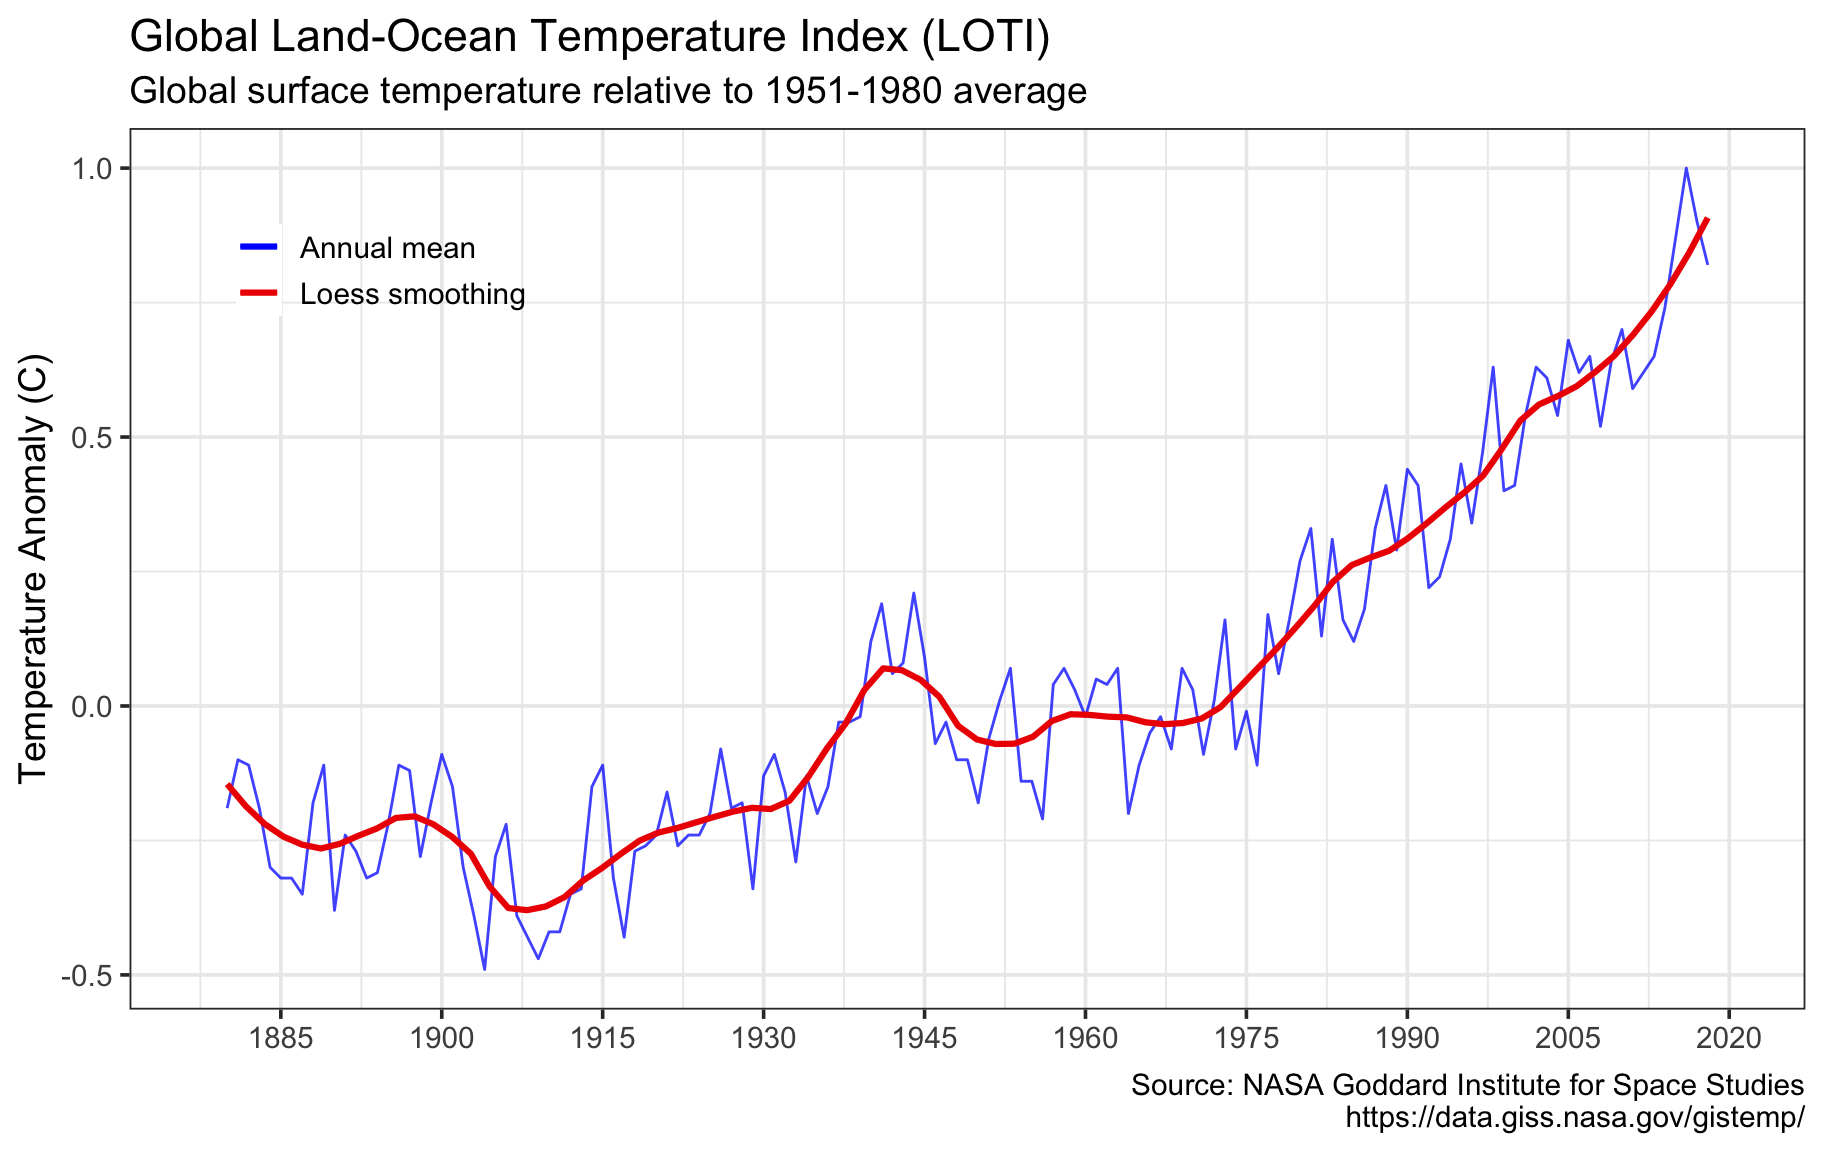
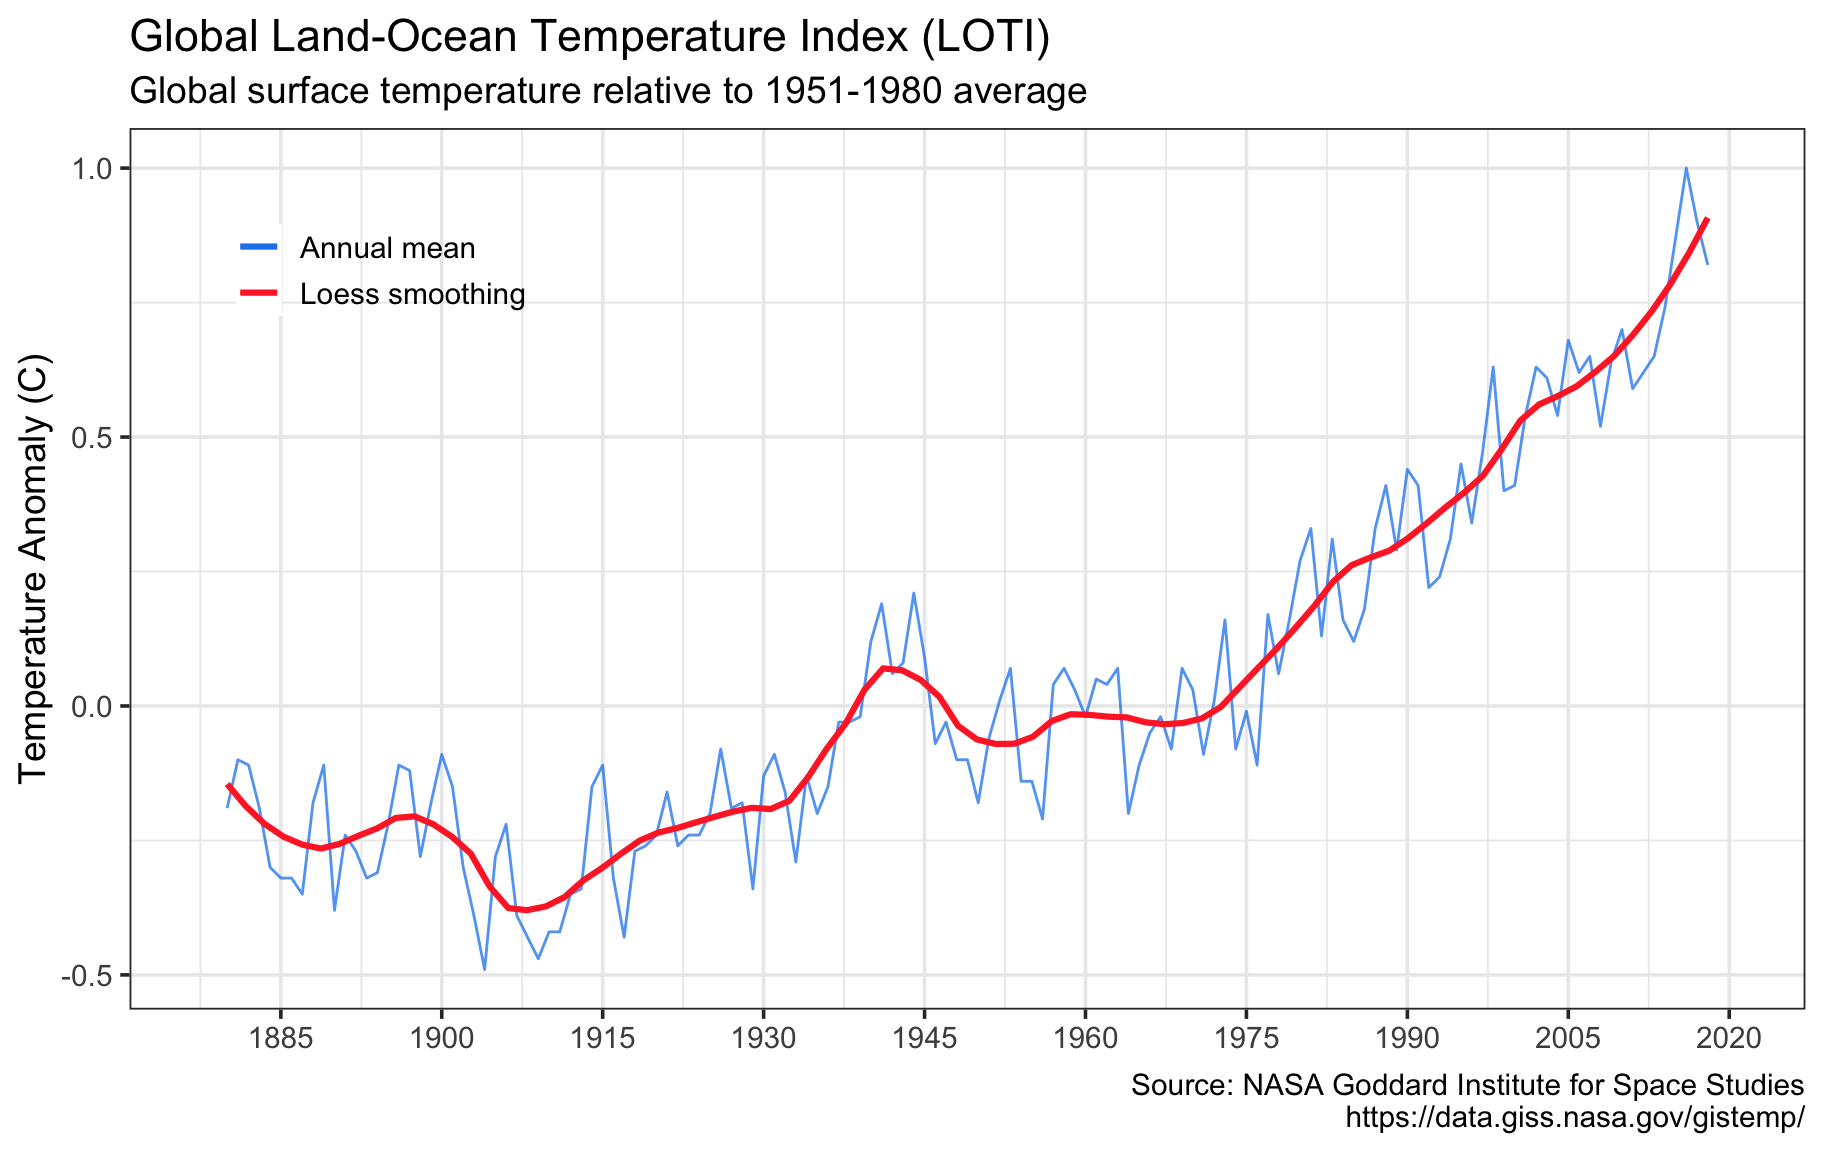
change chart colors

diff --git a/content/post/2018-11-16-the-top-five-climate-charts-using-ggplot2.html b/content/post/2018-11-16-the-top-five-climate-charts-using-ggplot2.html
@@ -36,10 +36,10 @@ colnames(paleotemp) &lt;- c(&#39;depth&#39;,&#39;age_ice&#39;,&#39;deuterium&#39
 
 theme_set(theme_bw(base_size = 14))
 
-a &lt;- ggplot(vostok,aes(x=age_ice,y=co2)) +geom_line(size=1, col=&#39;red2&#39;) +scale_x_reverse(lim=c(420000,0)) +
+a &lt;- ggplot(vostok,aes(x=age_ice,y=co2)) +geom_line(size=1, col=&#39;firebrick1&#39;) +scale_x_reverse(lim=c(420000,0)) +
   theme(axis.title.x=element_blank(), axis.text.x=element_blank()) +labs(y=expression(CO[2]*&#39; concentration&#39; ))
 
-b &lt;- ggplot(paleotemp,aes(x=age_ice,y=temp)) +geom_line(aes(y=rollmean(temp, 8, na.pad=TRUE)), size=1, col=&#39;blue&#39;) +scale_x_reverse(lim=c(420000,0),
+b &lt;- ggplot(paleotemp,aes(x=age_ice,y=temp)) +geom_line(aes(y=rollmean(temp, 8, na.pad=TRUE)), size=1, col=&#39;dodgerblue2&#39;) +scale_x_reverse(lim=c(420000,0),
             labels = scales::unit_format(unit=&#39;&#39;,scale = 1e-3)) +labs(x=&#39;Millennia before present&#39;, 
             y=&#39;Temperature (C)&#39;)
 
@@ -55,9 +55,9 @@ maunaloa &lt;- read_table2(&quot;maunaloa.txt&quot;, col_names = FALSE, skip = 7
 colnames(maunaloa) &lt;- c(&#39;year&#39;, &#39;month&#39;, &#39;date&#39;, &#39;average&#39;, &#39;interpolated&#39;, &#39;trend&#39;,&#39;days&#39;)
 maunaloa$date &lt;- as.Date(as.yearmon(paste(maunaloa$year, maunaloa$month, sep=&#39;-&#39;)))
 
-(d &lt;- ggplot(maunaloa, aes(x=date, y=average)) +geom_line(color=&#39;blue&#39;, alpha=0.7) +
+(d &lt;- ggplot(maunaloa, aes(x=date, y=average)) +geom_line(color=&#39;dodgerblue2&#39;, alpha=0.7) +
   scale_x_date(name=NULL, date_breaks=&#39;10 years&#39;, lim=c(ymd(&#39;1963-01-01&#39;), ymd(&#39;2020-01-01&#39;)), date_labels=&#39;%Y&#39;) +scale_y_continuous(lim=c(300, 410), breaks=seq(300, 400, 20)) +
-  geom_line(aes(y=trend), size=1, col=&#39;red2&#39;) +labs(title=expression(&#39;Rising Atmospheric &#39;*CO[2]*&#39; (Keeling Curve)&#39;), subtitle=expression(&#39;Mauna Loa &#39;*CO[2]*&#39; monthly mean ppm&#39;),
+  geom_line(aes(y=trend), size=1, col=&#39;firebrick1&#39;) +labs(title=expression(&#39;Rising Atmospheric &#39;*CO[2]*&#39; (Keeling Curve)&#39;), subtitle=expression(&#39;Mauna Loa &#39;*CO[2]*&#39; monthly mean ppm&#39;),
   y=expression(CO[2]*&#39; concentration in air&#39; ), caption=&#39;Source: NOAA/ESRL and Scripps Institution of Oceanography.\nhttps://www.esrl.noaa.gov/gmd/ccgg/trends/data.html&#39;))</code></pre>
 <p><img src="/post/2018-11-16-the-top-five-climate-charts-using-ggplot2_files/figure-html/keeling-1.png" width="912" /></p>
 </div>
@@ -77,7 +77,7 @@ gisstemp$annmean &lt;- as.numeric(gisstemp$annmean)
   scale_y_continuous() +geom_smooth(size=1.1, se=F, span=0.2, aes(color=&#39;Loess smoothing&#39;)) +
   labs(title=&#39;Global Land-Ocean Temperature Index (LOTI)&#39;, subtitle=&#39;Global surface temperature relative to 1951-1980 average&#39;,
   y=&#39;Temperature Anomaly (C)&#39;, caption=&#39;Source: NASA Goddard Institute for Space Studies\nhttps://data.giss.nasa.gov/gistemp/&#39;) +
-  scale_color_manual(name=NULL, values=c(&#39;blue&#39;,&#39;red2&#39;)) +theme(legend.position = c(0.15,0.85),legend.background=element_blank()))</code></pre>
+  scale_color_manual(name=NULL, values=c(&#39;dodgerblue2&#39;,&#39;firebrick1&#39;)) +theme(legend.position = c(0.15,0.85),legend.background=element_blank()))</code></pre>
 <p><img src="/post/2018-11-16-the-top-five-climate-charts-using-ggplot2_files/figure-html/temperature-1.png" width="912" /></p>
 </div>
 <div id="data-set-4-and-the-rising-sea-level" class="section level2">
@@ -106,7 +106,7 @@ gmsl &lt;- gather(gmsl, key=method, value=gmsl, -date, na.rm=T)
 
 (f &lt;- ggplot(gmsl, aes(x=date,color=method,y=gmsl)) +geom_line(alpha=0.7,size=1) +
   scale_x_datetime(name=NULL, breaks=&#39;15 years&#39;, lim=c(ymd_hms(&#39;1878-01-01 00:00:00&#39;), ymd_hms(&#39;2020-01-01 00:00:00&#39;)), date_labels =&#39;%Y&#39;) +
-  scale_color_manual(values=c(&#39;blue&#39;,&#39;red2&#39;),labels=c(&#39;Satellite observations&#39;,&#39;Coastal tide gauge records&#39;)) +theme(legend.position = c(0.20,0.80),legend.background=element_blank(),legend.title = element_blank()) +
+  scale_color_manual(values=c(&#39;dodgerblue2&#39;,&#39;firebrick1&#39;),labels=c(&#39;Satellite observations&#39;,&#39;Coastal tide gauge records&#39;)) +theme(legend.position = c(0.20,0.80),legend.background=element_blank(),legend.title = element_blank()) +
   scale_y_continuous(breaks=seq(-200,75,25)) +
   labs(title=&#39;Sea Level Change&#39;, subtitle=&#39;Tide gauges: 1880-2009; Satellite: 1992-2018, calibrated to 1993 tide gauge average.&#39;, y=&#39;Variation (mm)&#39;, caption=&#39;Sources: University of Colorado Sea Level Research Group (sat)\nhttp://sealevel.colorado.edu/\nCSIRO (tide gauge)\nhttp://www.cmar.csiro.au/sealevel/sl_data_cmar.html&#39;))</code></pre>
 <p><img src="/post/2018-11-16-the-top-five-climate-charts-using-ggplot2_files/figure-html/sealevel-1.png" width="912" /></p>
@@ -118,7 +118,7 @@ download.file(file_url, &#39;arctic_ice_min.csv&#39;)
 arctic_ice_min &lt;- read_csv(&quot;arctic_ice_min.csv&quot;)
 arctic_ice_min$year &lt;- round_date(date_decimal(arctic_ice_min$year), &#39;year&#39;)
 
-(g &lt;- ggplot(arctic_ice_min,aes(x=year, y=extent)) +geom_line(size=1, color=&#39;red2&#39;) +
+(g &lt;- ggplot(arctic_ice_min,aes(x=year, y=extent)) +geom_line(size=1, color=&#39;firebrick1&#39;) +
   scale_x_datetime(name=NULL, breaks=&#39;5 years&#39;, date_labels=&#39;%Y&#39;, lim=c(ymd_hms(&#39;1978-01-01 00:00:00&#39;), ymd_hms(&#39;2020-01-01 00:00:00&#39;))) +
   scale_y_continuous(lim=c(3,8)) + geom_smooth(method=&#39;lm&#39;, se=F, linetype=2, size=0.5) +
   labs(title=&#39;Arctic Sea Ice Minimum&#39;, subtitle=&#39;September average sea ice extent. Linear regression line in blue.&#39;, y=&#39;million square km&#39;, caption=&#39;Source: National Snow &amp; Ice Data Center\nhttps://nsidc.org/data/seaice_index\nftp://sidads.colorado.edu/DATASETS/NOAA/G02135/north/monthly/data/N_09_extent_v3.0.csv&#39;))</code></pre>
